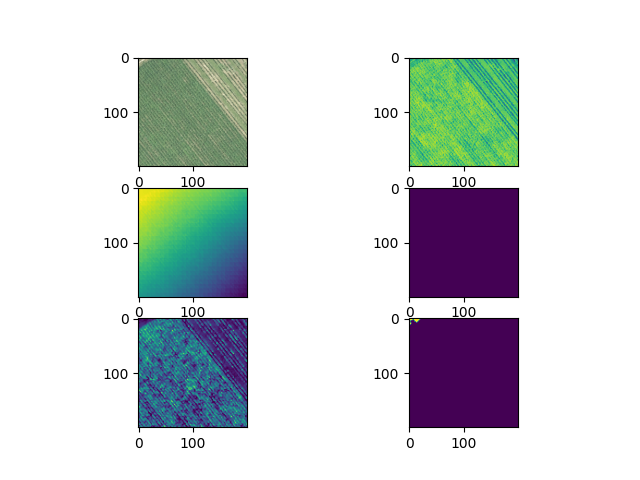
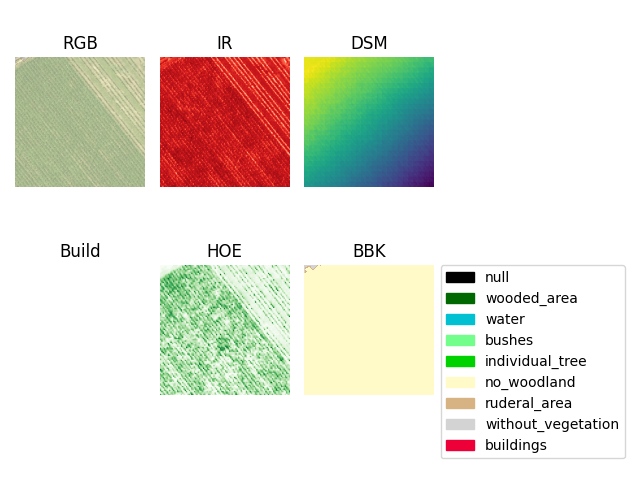
example_data

diff --git a/example_data.py b/example_data.py
@@ -2,51 +2,32 @@ from utils.dataset import BBKDataset
 import torch
 from torch.utils.data import DataLoader
 import matplotlib.pyplot as plt
+import matplotlib.colors as colors
+import matplotlib.patches as mpatches
 import numpy as np
 
 bbkd = BBKDataset(zone = ("genf",),split="test", augment=False)
 print(len(bbkd))
 dl = DataLoader(bbkd, batch_size=16, shuffle=False)
-# print(bbkd.split_counts)
-# print(bbkd.split_coordinates)
+
 x = next(iter(dl))
-# print(x[0][0].size())
-# print(x[1][0].type())
+
 
 num = 1
 
-# document = x[0][num]
-# rgbidsm = document[:5,:,:]*bbkd.std_vals_tiles+bbkd.mean_vals_tiles
-# rgb = rgbidsm[:3,:,:].div(torch.max(rgbidsm[:3,:,:])).permute(1,2,0).numpy()
-# ir = rgbidsm[3,:,:].div(torch.max(rgbidsm[3,:,:])).numpy()
-# dsm = rgbidsm[4,:,:].div(torch.max(rgbidsm[4,:,:])).numpy()
-# build = document[5,:,:].numpy()
-# hoe = document[6,:,:]*bbkd.std_vals_vegetation+bbkd.mean_vals_vegetation
-# hoe = hoe.div(torch.max(hoe)).numpy()
-# bbk = x[1][num].argmax(dim=0).numpy()
+# classes : "null","wooded_area", "water", "bushes", "individual_tree", "no_woodland", "ruderal_area", "without_vegetation", "buildings"
+# rgb : [0,0,0], [0,104,0], [0, 192, 210], 
+# hex : '#000000', '#006800','#00c0d2', '#73fe8c', '#00d200', '#fffac7', '#d7b384', '#d4d3d4', '#ed0038'
+bbk_cmap = colors.ListedColormap(['#000000', '#006800','#00c0d2', '#73fe8c', '#00d200', '#fffac7', '#d7b384', '#d4d3d4', '#ed0038'])
+bbk_scale = [0,1,2,3,4,5,6,7,8,9]
+labels = ["null","wooded_area", "water", "bushes", "individual_tree", "no_woodland", "ruderal_area", "without_vegetation", "buildings"]
+hex_colors = ['#000000', '#006800','#00c0d2', '#73fe8c', '#00d200', '#fffac7', '#d7b384', '#d4d3d4', '#ed0038']
 
-# print(np.shape(rgb))
-# print(np.shape(ir))
-# print(np.shape(dsm))
-# print(np.shape(build))
-# print(np.shape(hoe))
-# print(np.shape(bbk))
+# create a patch (proxy artist) for every color 
+patches = [ mpatches.Patch(color=hex_colors[i], label=labels[i]) for i in range(len(hex_colors)) ]
+# put those patched as legend-handles into the legend
+#plt.legend(handles=patches, bbox_to_anchor=(1.05, 1), loc=2, borderaxespad=0. )
 
-# plt.figure()
-# plt.subplot(321)
-# plt.imshow(rgb)
-# plt.subplot(322)
-# plt.imshow(ir)
-# plt.subplot(323)
-# plt.imshow(dsm)
-# plt.subplot(324)
-# plt.imshow(build)
-# plt.subplot(325)
-# plt.imshow(hoe)
-# plt.subplot(326)
-# plt.imshow(bbk)
-# plt.savefig("example_data.png")
-# plt.show()
 
 counter = 0
 for i in dl:
@@ -54,11 +35,15 @@ for i in dl:
 	document = i[0][num]
 	rgbidsm = document[:5,:,:]*bbkd.std_vals_tiles+bbkd.mean_vals_tiles
 	rgb = rgbidsm[:3,:,:].div(torch.max(rgbidsm[:3,:,:])).permute(1,2,0).numpy()
-	ir = rgbidsm[3,:,:].div(torch.max(rgbidsm[3,:,:])).numpy()
-	dsm = rgbidsm[4,:,:].div(torch.max(rgbidsm[4,:,:])).numpy()
+	#rgb = rgbidsm[:3,:,:].permute(1,2,0).numpy()
+	# ir = rgbidsm[3,:,:].div(torch.max(rgbidsm[3,:,:])).numpy()
+	ir = rgbidsm[3,:,:].numpy()
+	# dsm = rgbidsm[4,:,:].div(torch.max(rgbidsm[4,:,:])).numpy()
+	dsm = rgbidsm[4,:,:].numpy()
 	build = document[5,:,:].numpy()
 	hoe = document[6,:,:]*bbkd.std_vals_vegetation+bbkd.mean_vals_vegetation
-	hoe = hoe.div(torch.max(hoe)).numpy()
+	# hoe = hoe.div(torch.max(hoe)).numpy()
+	hoe = hoe.numpy()
 	bbk = i[1][num].argmax(dim=0).numpy()
 
 	# print(np.shape(rgb))
@@ -69,18 +54,49 @@ for i in dl:
 	# print(np.shape(bbk))
 
 	plt.figure()
-	plt.subplot(321)
+	plt.subplot(231)
 	plt.imshow(rgb)
-	plt.subplot(322)
-	plt.imshow(ir)
-	plt.subplot(323)
-	plt.imshow(dsm)
-	plt.subplot(324)
-	plt.imshow(build)
-	plt.subplot(325)
-	plt.imshow(hoe)
-	plt.subplot(326)
-	plt.imshow(bbk)
+	plt.imshow(bbk, cmap=bbk_cmap, norm=colors.BoundaryNorm(bbk_scale, len(bbk_scale)-1), alpha=0.4)
+	plt.axis('off')
+	plt.title('RGB')
+	plt.subplot(232)
+	plt.imshow(ir, cmap='Reds', norm=colors.Normalize())
+	plt.axis('off')
+	plt.title('IR')
+	plt.subplot(233)
+	plt.imshow(dsm, norm=colors.Normalize())
+	plt.axis('off')
+	plt.title('DSM')
+	plt.subplot(234)
+	plt.imshow(build, cmap='Greys')
+	plt.axis('off')
+	plt.title('Build')
+	plt.subplot(235)
+	plt.imshow(hoe, cmap='Greens', norm=colors.Normalize())
+	plt.axis('off')
+	plt.title('HOE')
+	plt.subplot(236)
+	plt.imshow(bbk, cmap=bbk_cmap, norm=colors.BoundaryNorm(bbk_scale, len(bbk_scale)-1))
+	plt.legend(handles=patches, bbox_to_anchor=(1.05, 1), loc=2, borderaxespad=0. )
+	plt.axis('off')
+	plt.title('BBK')
+	plt.tight_layout()
 	plt.savefig(f'example_data/example_data{counter}.png')
+
+
+
+
+
+
+
+
+
+
+
+
+
+
+
+
 
 
